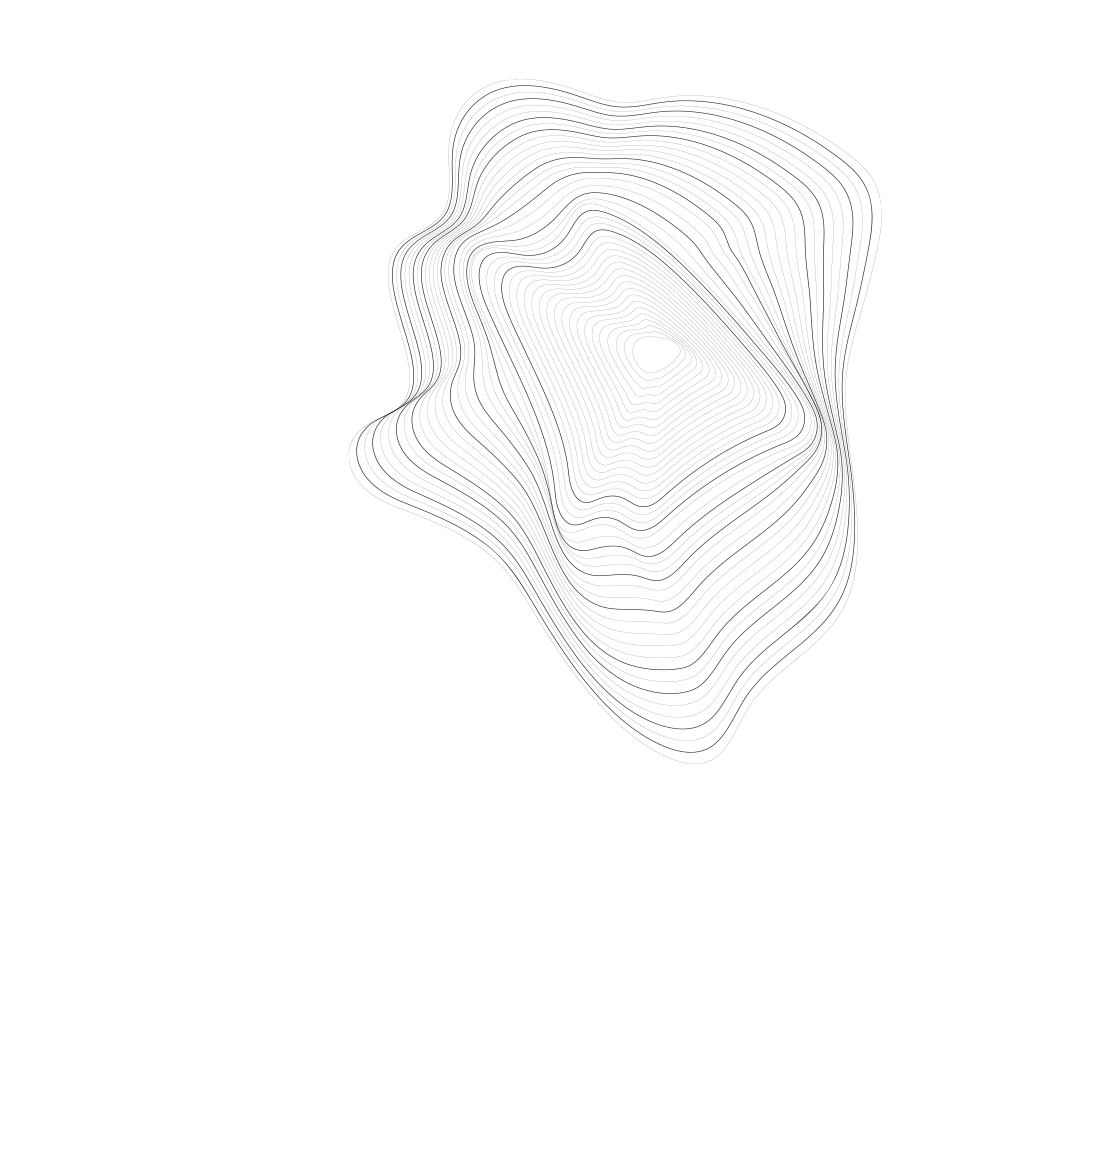
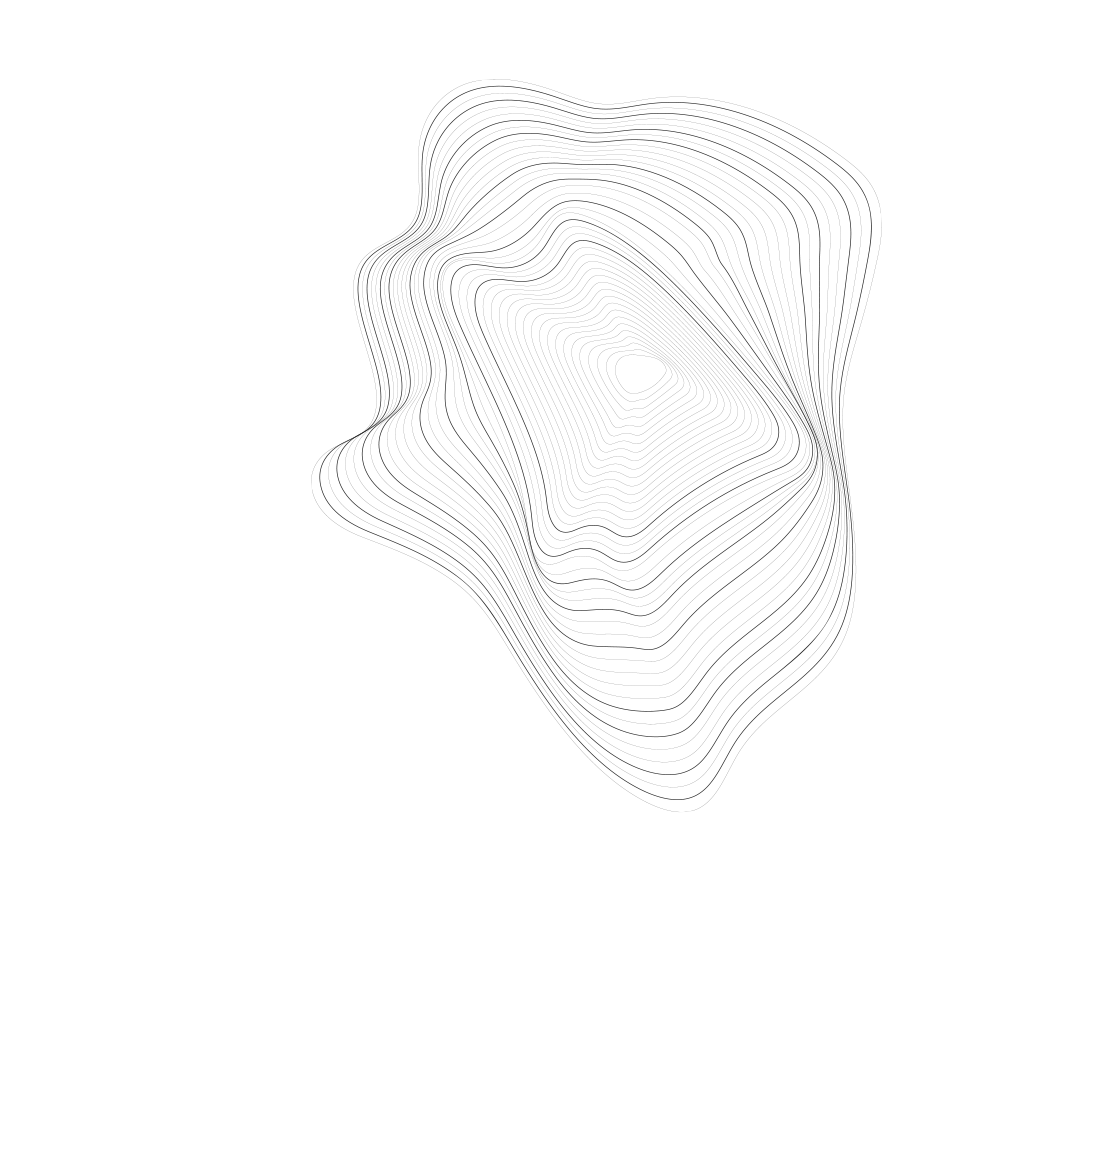
151123

Changed region(s): [[0.2737, 0.0615, 0.7907, 0.6769]]

diff --git a/project/wa_sake.html b/project/wa_sake.html
@@ -58,7 +58,7 @@
 
   <div class="observable" id="project-overview">
     <div class="project-overview">
-      <div class="h5 project-overview-title">和酌 Sake Campaign</div>
+      <div class="h5 project-overview-title">和酌 Local Sake Campaign</div>
 
       <div class="project-overview-body">"和酌" is an e-commerce platform that offers a variety of japan wine-related experiences and a new lifestyle. Aim to sell mainly fresh sake at the same price in Japan and classic snack that go well with its sake.
       </div>
@@ -67,7 +67,7 @@
     <div class="project-overview-details-row">
       <div class="project-overview-details-column">
         <span class="project-overview-subhead h4">Deliverable</span>
-        <span class="project-overview-value">Social Media Campaign</span>
+        <span class="project-overview-value">Marketing Campaign</span>
       </div>
       <div class="project-overview-details-column">
           <span class="project-overview-subhead h4">Role</span>
@@ -161,7 +161,7 @@
         <p class="observable h2 spacing-sub-title">Ideating the <span class="txtpoint jy-color">Design</span></p>
         <p class="observable h1 spacing-sub-title txtpoint">Visual Language</p>
 
-        <p class="observable copy spacing-small">Sake has had a close relationship with the natural environment of Japanese people since ancient times. For this reason, I present the hand sketch 4 raw essential materials that passion for natural, local sake brand respect for the land. On the story, four visual identity are designed which represent “Rice”, “ Water”, "Koji" and “Sake Makers dedication”.</p>
+        <p class="observable copy spacing-small">Sake has had a close relationship with the natural environment of Japanese people since ancient times. For this reason, I present the three dynamic landscapes sketch lines of Nagano (長野), Yamagata 山形, Aomori (青森) as a key visual, and 4 raw essential materials that passion for natural, local sake brand respect for the land. On the story, four visual identity are designed which represent “Rice”, “ Water”, "Koji" and “Sake Makers dedication”.</p>
 
         <p class="observable copy spacing-small">These represent sake brand's deep connection to the land, hard work and authenticity. Using the background images and features of "酒造" combined with the raw style of the sketches, it shows a journey of discovery and respect for the terroir.</p>
     </div>
